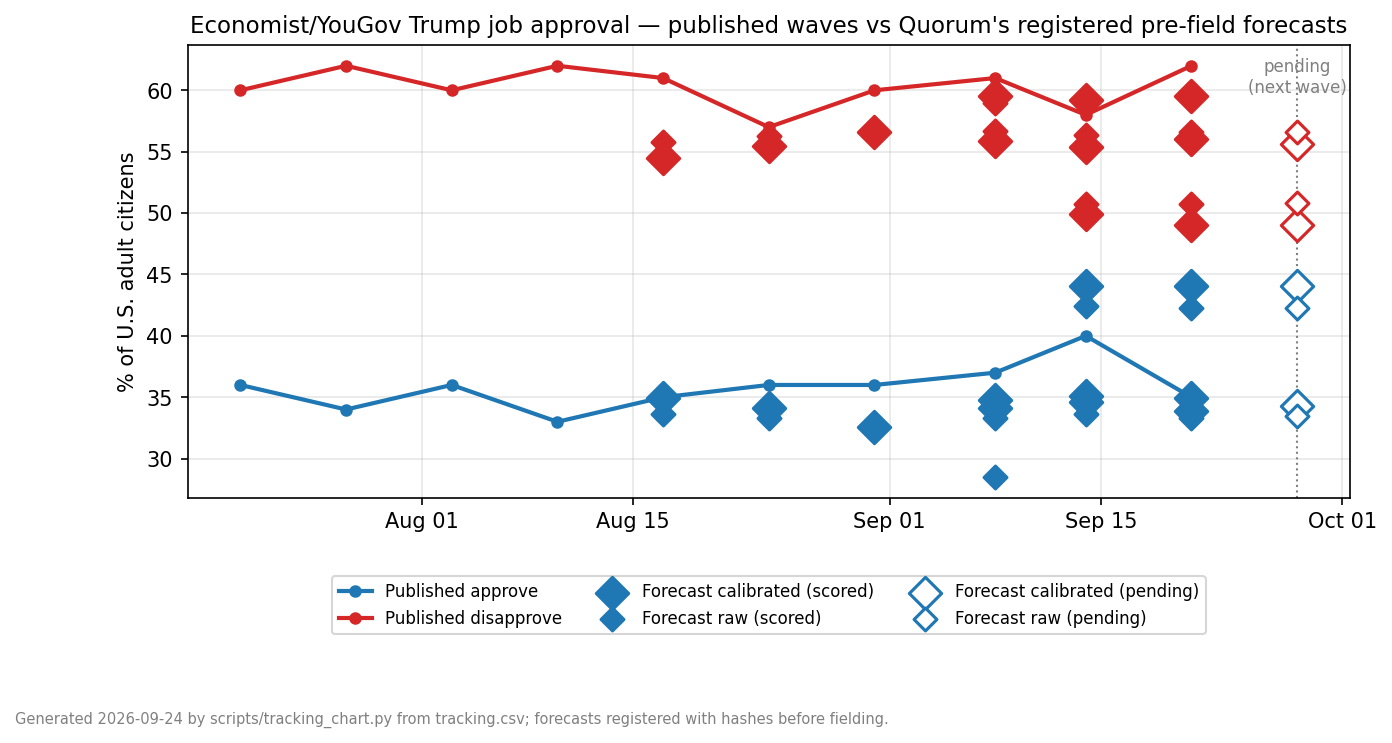
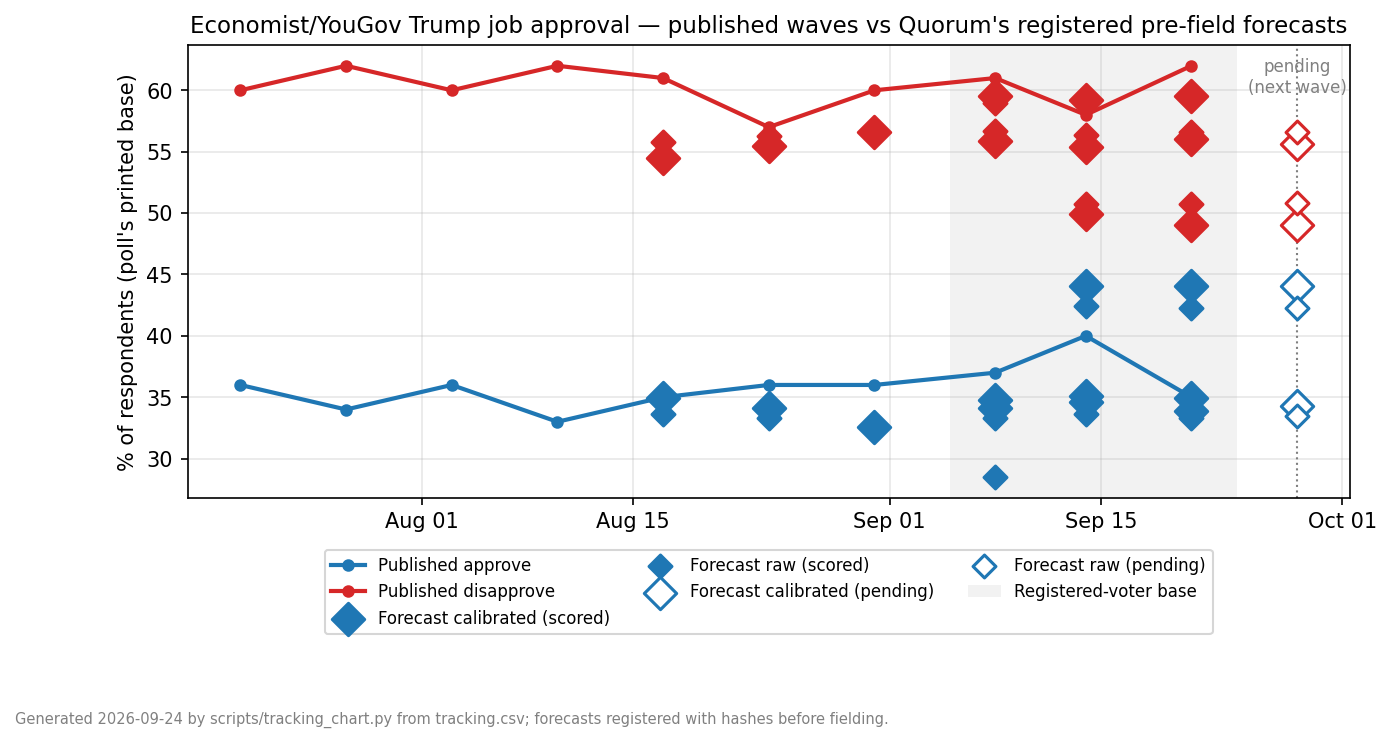
tracking.png: y-axis now '% of respondents (poll's printed base)' — it said 'U.S. adult citizens' while the last three waves printed on registered voters; RV weeks shaded (derived from the wave labels); README caption notes the shading

Changed region(s): [[0.2162, 0.7429, 0.8649, 0.8668], [0.0618, 0.1857, 0.0927, 0.5262]]

diff --git a/README.md b/README.md
@@ -26,7 +26,8 @@ wave is one wave: a quarter of registered forecasts (weekly waves, a second poll
 ![Published Economist/YouGov approval vs Quorum's registered pre-field forecasts](tracking.png)
 
 *The series so far: published waves (lines) against every registered forecast (diamonds —
-filled = scored, open = wave pending; large = calibrated engine, small = raw). The chart
+filled = scored, open = wave pending; large = calibrated engine, small = raw; shaded weeks
+printed on a registered-voter base, earlier weeks on adult citizens). The chart
 shows the misses too: our disapprove runs visibly low (the "Not sure" over-hedge named in
 the verdict). Data + sources: [`tracking.csv`](tracking.csv); one row appends per wave.*
 
